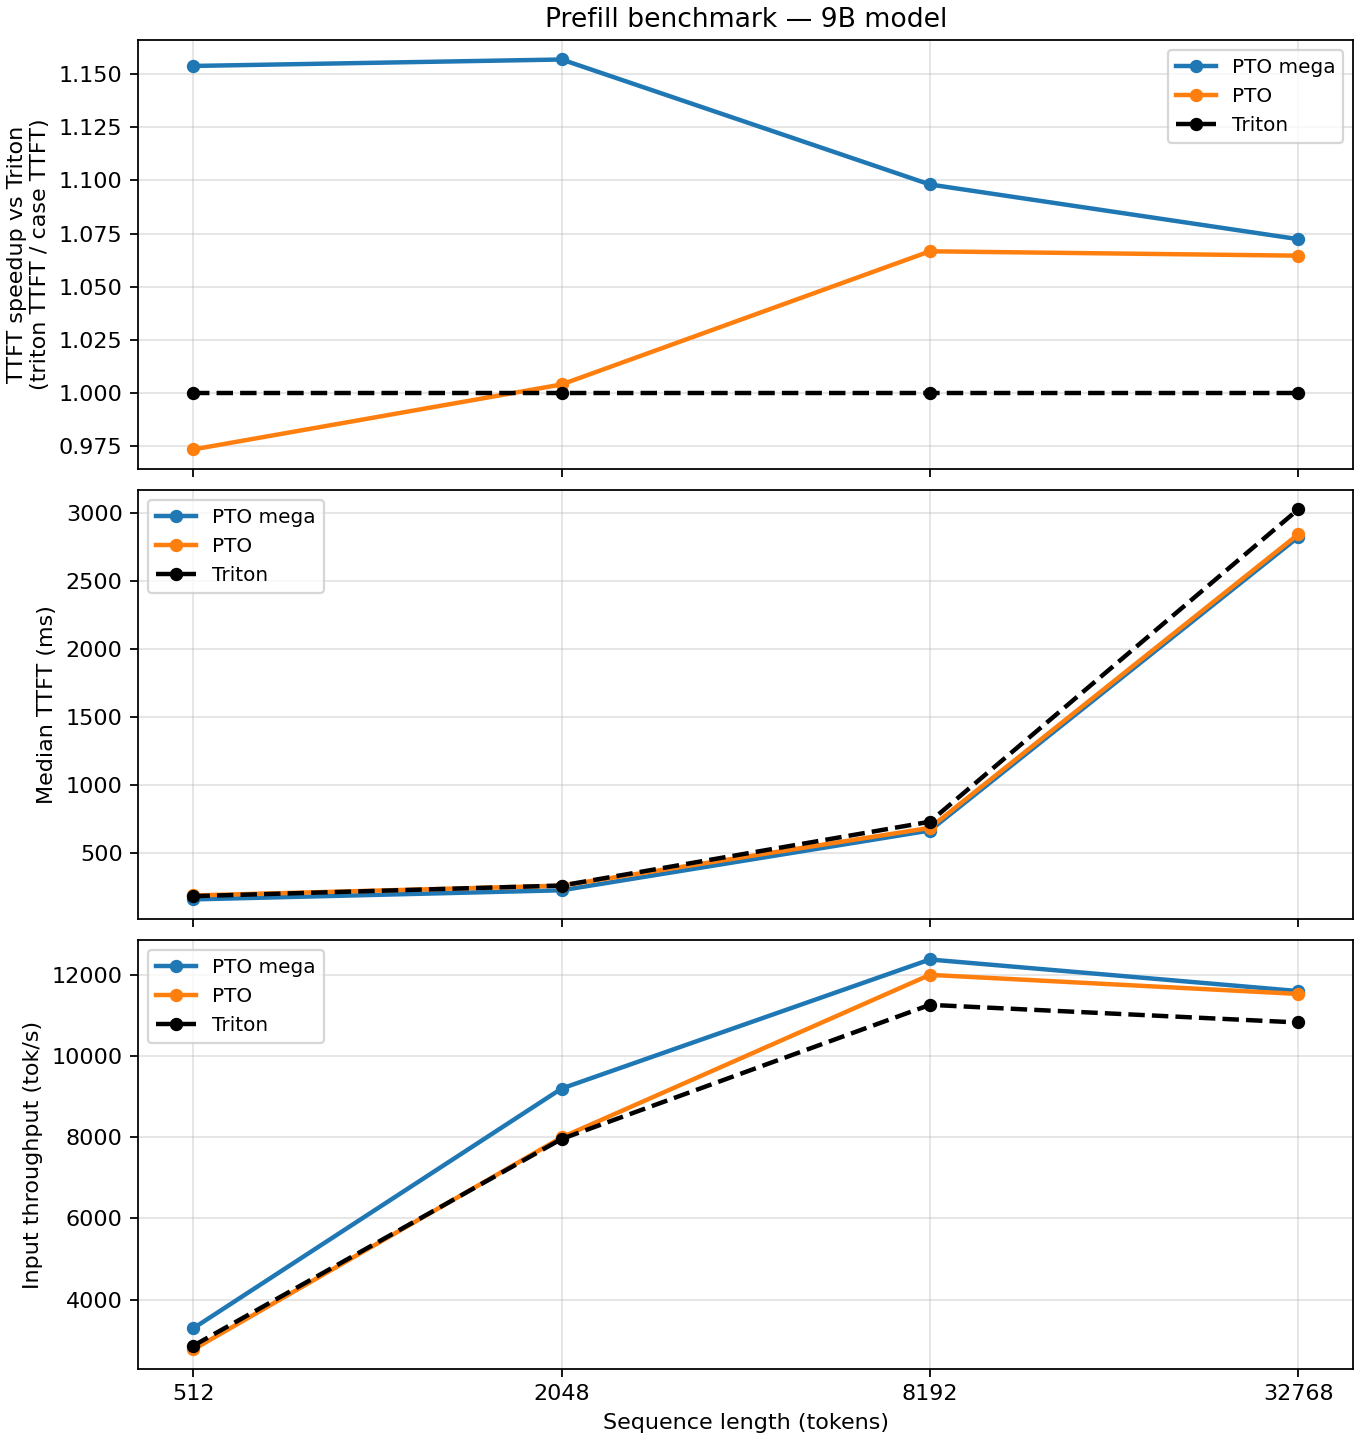
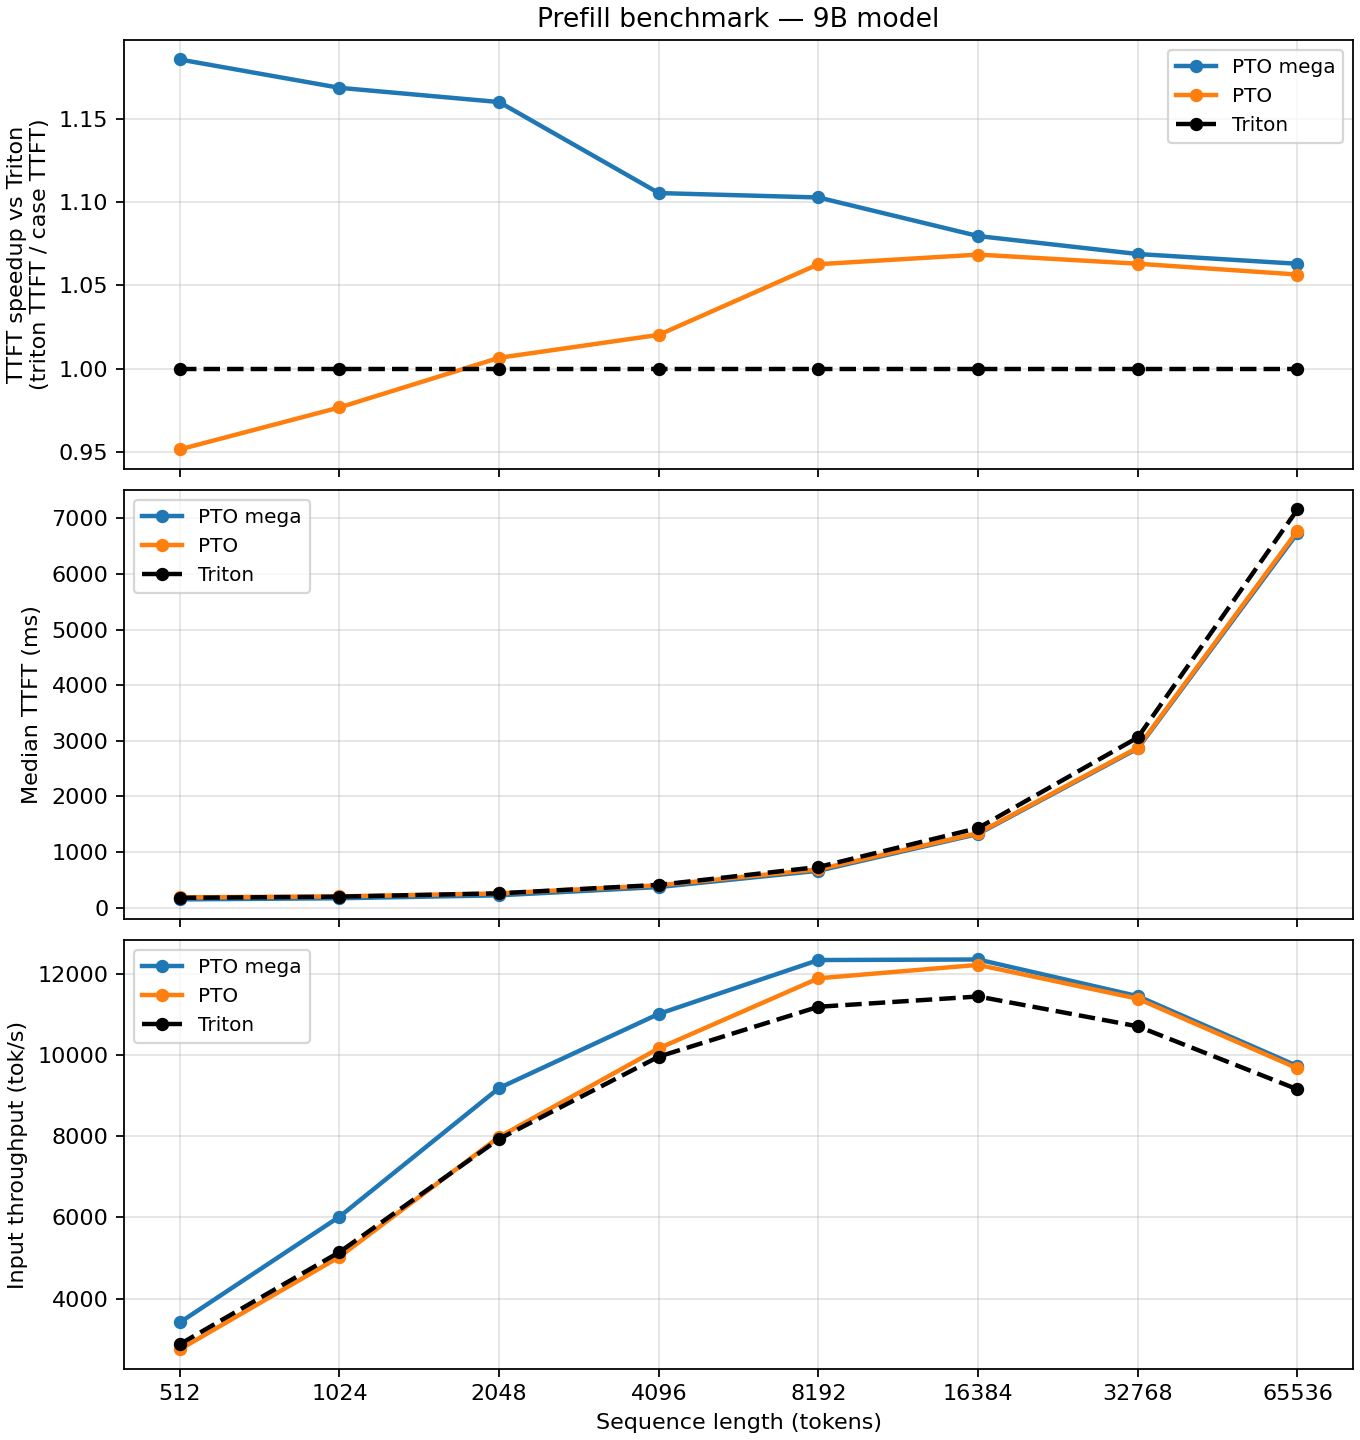
more data points for 4B and 9B benchmarks

diff --git a/patch_vllm_pto/README.md b/patch_vllm_pto/README.md
@@ -76,27 +76,35 @@ Command:
 ## Prefill TTFT benchmark (GQA **4B** / **9B**)
 
 **Metric:** `RequestOutput.metrics.first_token_latency` (seconds), reported as **median TTFT** (ms) in JSONL (`median_ttft_ms`) and implied **input_tps** = `seq_len / (mean_ttft_ms / 1000)` from `benchmark_prefill_latency.py`.  
-**Run:** 2026-04-28 (fresh rerun), `WARMUP=1`, `REPEATS=5`, `SEQ_LENS="512 2048 8192 32768"`, `ASCEND_RT_VISIBLE_DEVICES=0`, **`run_benchmark_prefill_three_way.sh`** with `BENCHMARK_MODEL_SPECS` restricted to 4B/9B, output `bench_prefill_20260428_gqa/<LABEL>/{triton,pto,pto_mega}.jsonl` plus `run.log`.
+**Run:** `bench_prefill_20260428_gqa` — same **sequence-length ladder** and **`WARMUP` / `REPEATS`** as **`bench_prefill_20260424`** (0.8B / 2B): **`SEQ_LENS="512 1024 2048 4096 8192 16384 32768 65536"`**, `WARMUP=2`, `REPEATS=10`, `ASCEND_RT_VISIBLE_DEVICES=0`, **`run_benchmark_prefill_three_way.sh`** with **`BENCHMARK_MODEL_SPECS`** for 4B/9B only — `bench_prefill_20260428_gqa/<LABEL>/{triton,pto,pto_mega}.jsonl` plus `run.log`.
 
-At short sequence lengths, Triton vs staged PTO vs mega can sit within a few milliseconds; at **8192** and **32768** tokens, **PTO megakernel** shows clearly **lower median TTFT** than Ascend Triton (staged PTO is also faster than Triton at 4B on long prompts in this run). Regenerate **`figure/prefill_speedup_4B.png`** / **`prefill_speedup_9B.png`** with **`python3 plot_speedup.py`**.
+**PTO megakernel** routinely beats Ascend **Triton** on median TTFT from mid-length prompts upward; staged **PTO** is fastest on several long-context rows for **4B** here. Figures: **`figure/prefill_speedup_4B.png`** and **`prefill_speedup_9B.png`** from **`python3 plot_speedup.py`**.
 
 ### Qwen3.5-4B
 
 | seq_len | Triton median TTFT (ms) | PTO median TTFT (ms) | PTO mega median TTFT (ms) |
 |--------:|-------------------------:|--------------------:|--------------------------:|
-| 512 | 177.5 | 191.7 | 155.1 |
-| 2048 | 217.7 | 219.3 | 181.5 |
-| 8192 | 560.3 | 515.0 | 493.8 |
-| 32768 | 2256.6 | 2046.3 | 2030.3 |
+| 512 | 182.2 | 187.4 | 153.0 |
+| 1024 | 189.0 | 190.1 | 154.5 |
+| 2048 | 220.3 | 219.1 | 180.0 |
+| 4096 | 319.6 | 303.1 | 279.1 |
+| 8192 | 561.6 | 514.0 | 500.1 |
+| 16384 | 1081.3 | 975.3 | 958.3 |
+| 32768 | 2261.5 | 2061.9 | 2043.8 |
+| 65536 | 5527.5 | 5129.9 | 5100.1 |
 
 ### Qwen3.5-9B
 
 | seq_len | Triton median TTFT (ms) | PTO median TTFT (ms) | PTO mega median TTFT (ms) |
 |--------:|-------------------------:|--------------------:|--------------------------:|
-| 512 | 178.8 | 183.7 | 155.0 |
-| 2048 | 257.0 | 256.0 | 222.1 |
-| 8192 | 727.4 | 681.9 | 662.4 |
-| 32768 | 3027.6 | 2843.9 | 2823.3 |
+| 512 | 177.1 | 186.2 | 149.4 |
+| 1024 | 198.7 | 203.5 | 170.0 |
+| 2048 | 258.2 | 256.5 | 222.6 |
+| 4096 | 410.9 | 402.7 | 371.7 |
+| 8192 | 732.1 | 688.8 | 663.8 |
+| 16384 | 1431.9 | 1340.1 | 1326.2 |
+| 32768 | 3060.1 | 2878.6 | 2862.9 |
+| 65536 | 7159.3 | 6776.0 | 6734.7 |
 
 ## Worker hook
 
